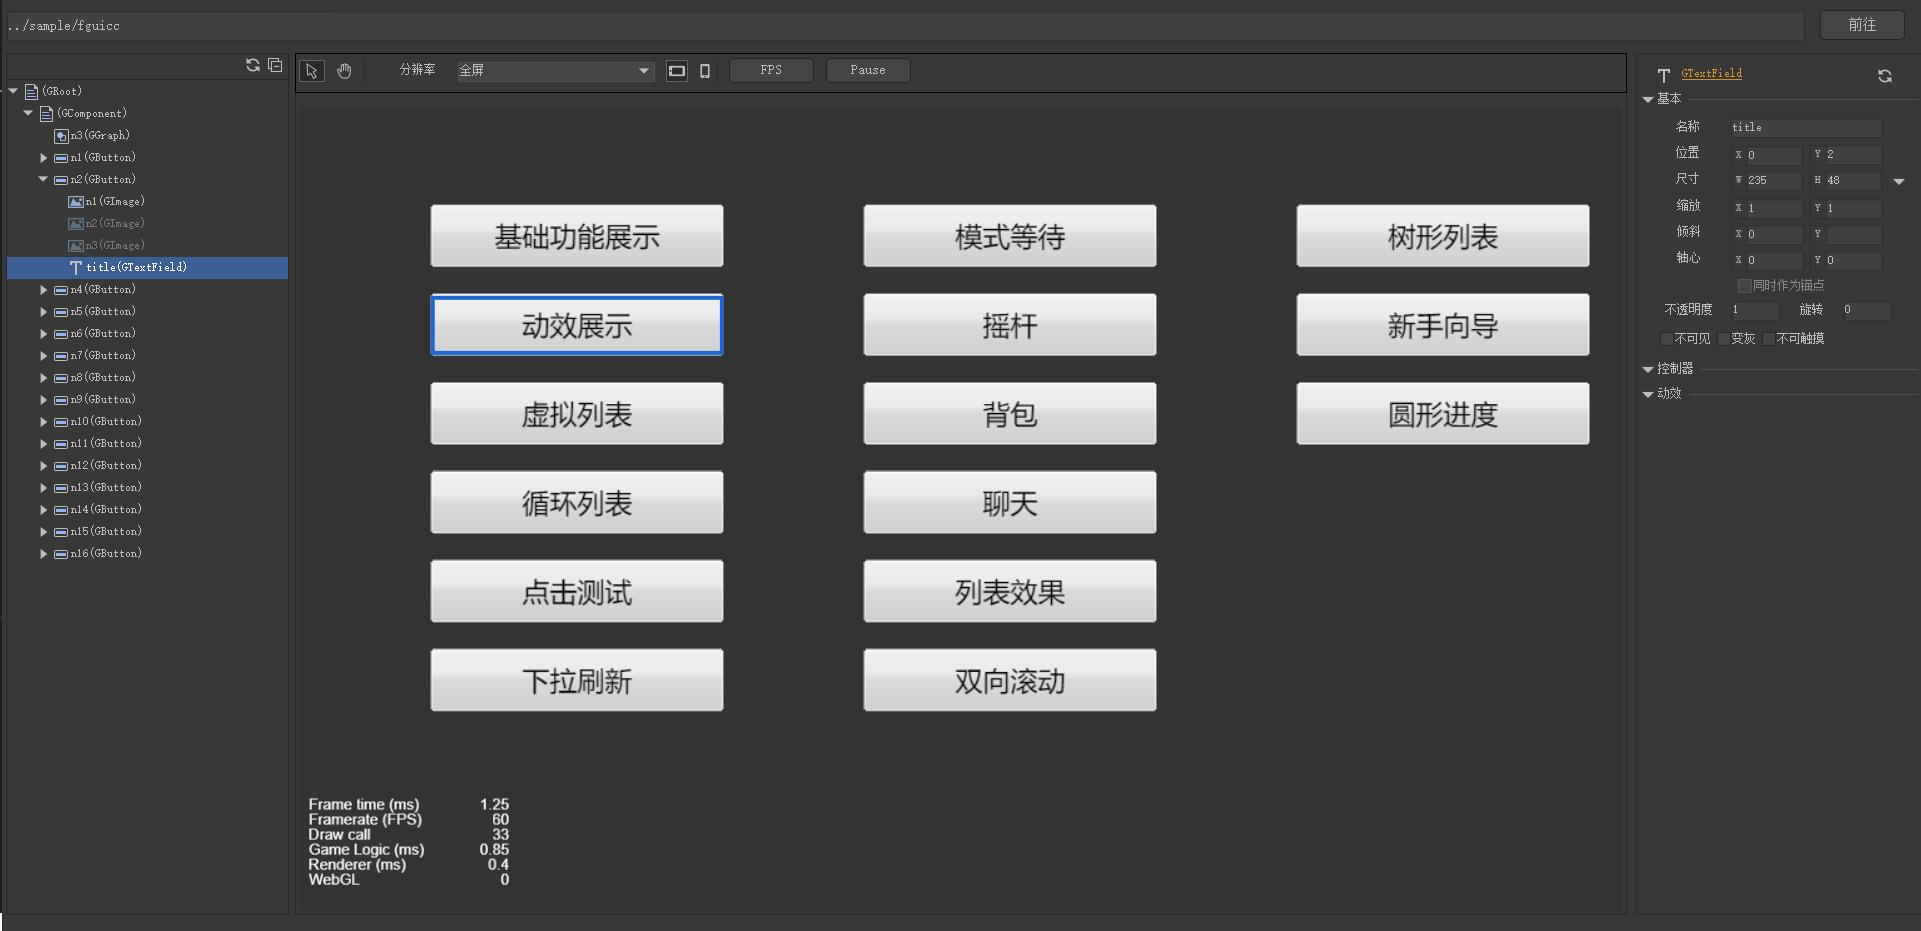
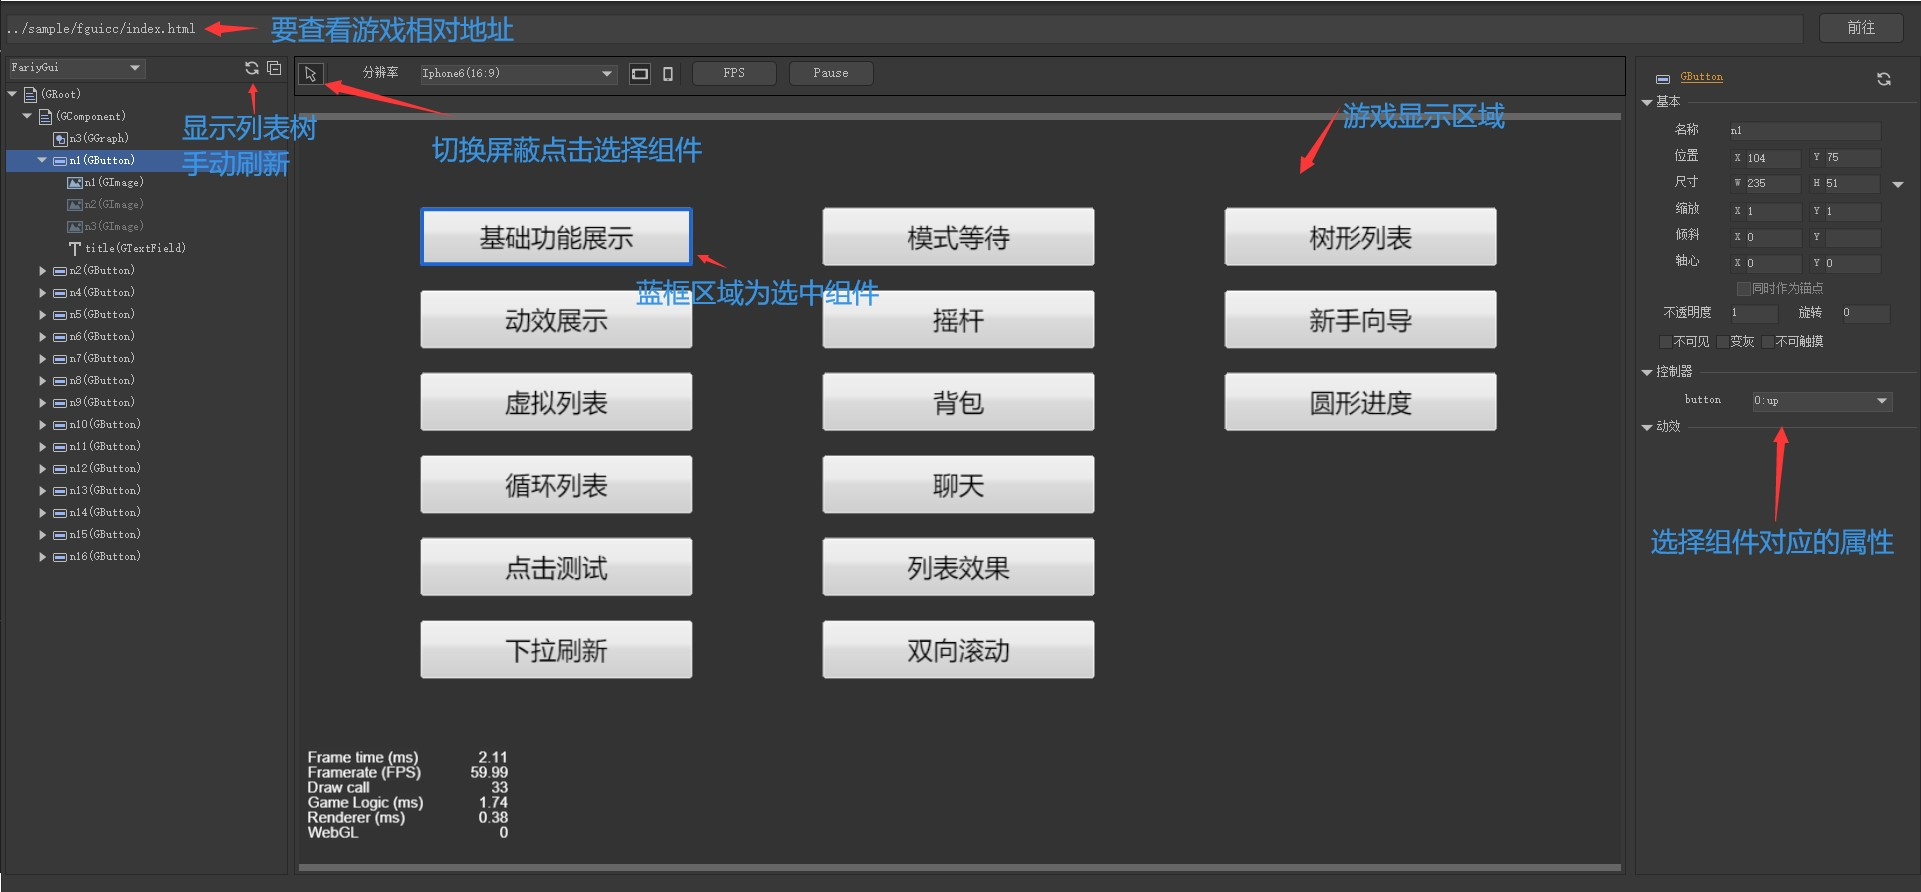
说明调整提交

diff --git a/README.md b/README.md
@@ -1,27 +1,27 @@
 # H5GameScene
-![avatar](/image/cc.jpg)
-#### 介绍
-H5场景查看
+![avatar](image/cc.jpg)
+### 介绍
+- H5场景组件查看工具是一款类似Unity Scene和浏览器开发者工具 select Elements功能， 查看运行中显示对象的属性，并支持实时修改
 
-#### 软件架构
-类似Unity Scene功能 查看运行中显示对象的属性，并支持实时修改
-目前支持基于FairyGui的Laya、Egret、Cocos Creator 项目
-后续支持原生UI框架以及原生3D对象
-#### 安装教程
-Laya/release/H5GameScene.html放到和要查看的项目同个域下
+- 目前支持Laya、Egret、Cocos Creator 引擎项目的FairyGui和原生UI切换查看
+后续支持原生3D对象
+
+### 安装教程
+  
+- 由于工具要访问游戏的window内对象，需要在同一个域下，不然有跨域问题，所以要下载 [H5GameScene.html](http://download.zgsjl8.com/sw/minigame/lpy/H5GameScene/sample/H5GameScene.html)文件放到和要查看的项目同个域下的目录内
  
-#### 使用说明
+### 使用说明
 
+- Laya项目放在和工程bin同级目录，原访问地址bin/index.html改为H5GameScene.html?url=bin%2Findex.html
 
-Laya项目放在和工程bin同级目录，原访问地址bin/index.html改为H5GameScene.html?url=bin%2Findex.html
+- Egret项目放在和工程bin-debug同级目录，原访问地址index.html改为H5GameScene.html?url=index.html
 
-Egret项目放在和工程bin-debug同级目录，原访问地址index.html改为H5GameScene.html?url=index.html
-
-CoCosCreator项目放在IDE安装目录resources\static目录内，原访问地址http://localhost:7456/ 改为 http://localhost:7457/app/editor/static/H5GameScene.html?url=..%2F..%2F..%2F
+- CoCosCreator项目放在IDE安装目录resources\static目录内，原访问地址http://localhost:7456/ 改为 http://localhost:7456/app/editor/static/H5GameScene.html?url=..%2F..%2F..%2F
 
 显示列表暂时不支持实时刷新，需要查看的时候手动点击左上角刷新按钮
 
 
-
-
-
+## 示例
+- Laya http://download.zgsjl8.com/sw/minigame/lpy/H5GameScene/sample/H5GameScene.html?url=fguilaya
+- Egret http://download.zgsjl8.com/sw/minigame/lpy/H5GameScene/sample/H5GameScene.html?url=fguiegret
+- CoCosCreator http://download.zgsjl8.com/sw/minigame/lpy/H5GameScene/sample/H5GameScene.html?url=fguicc
